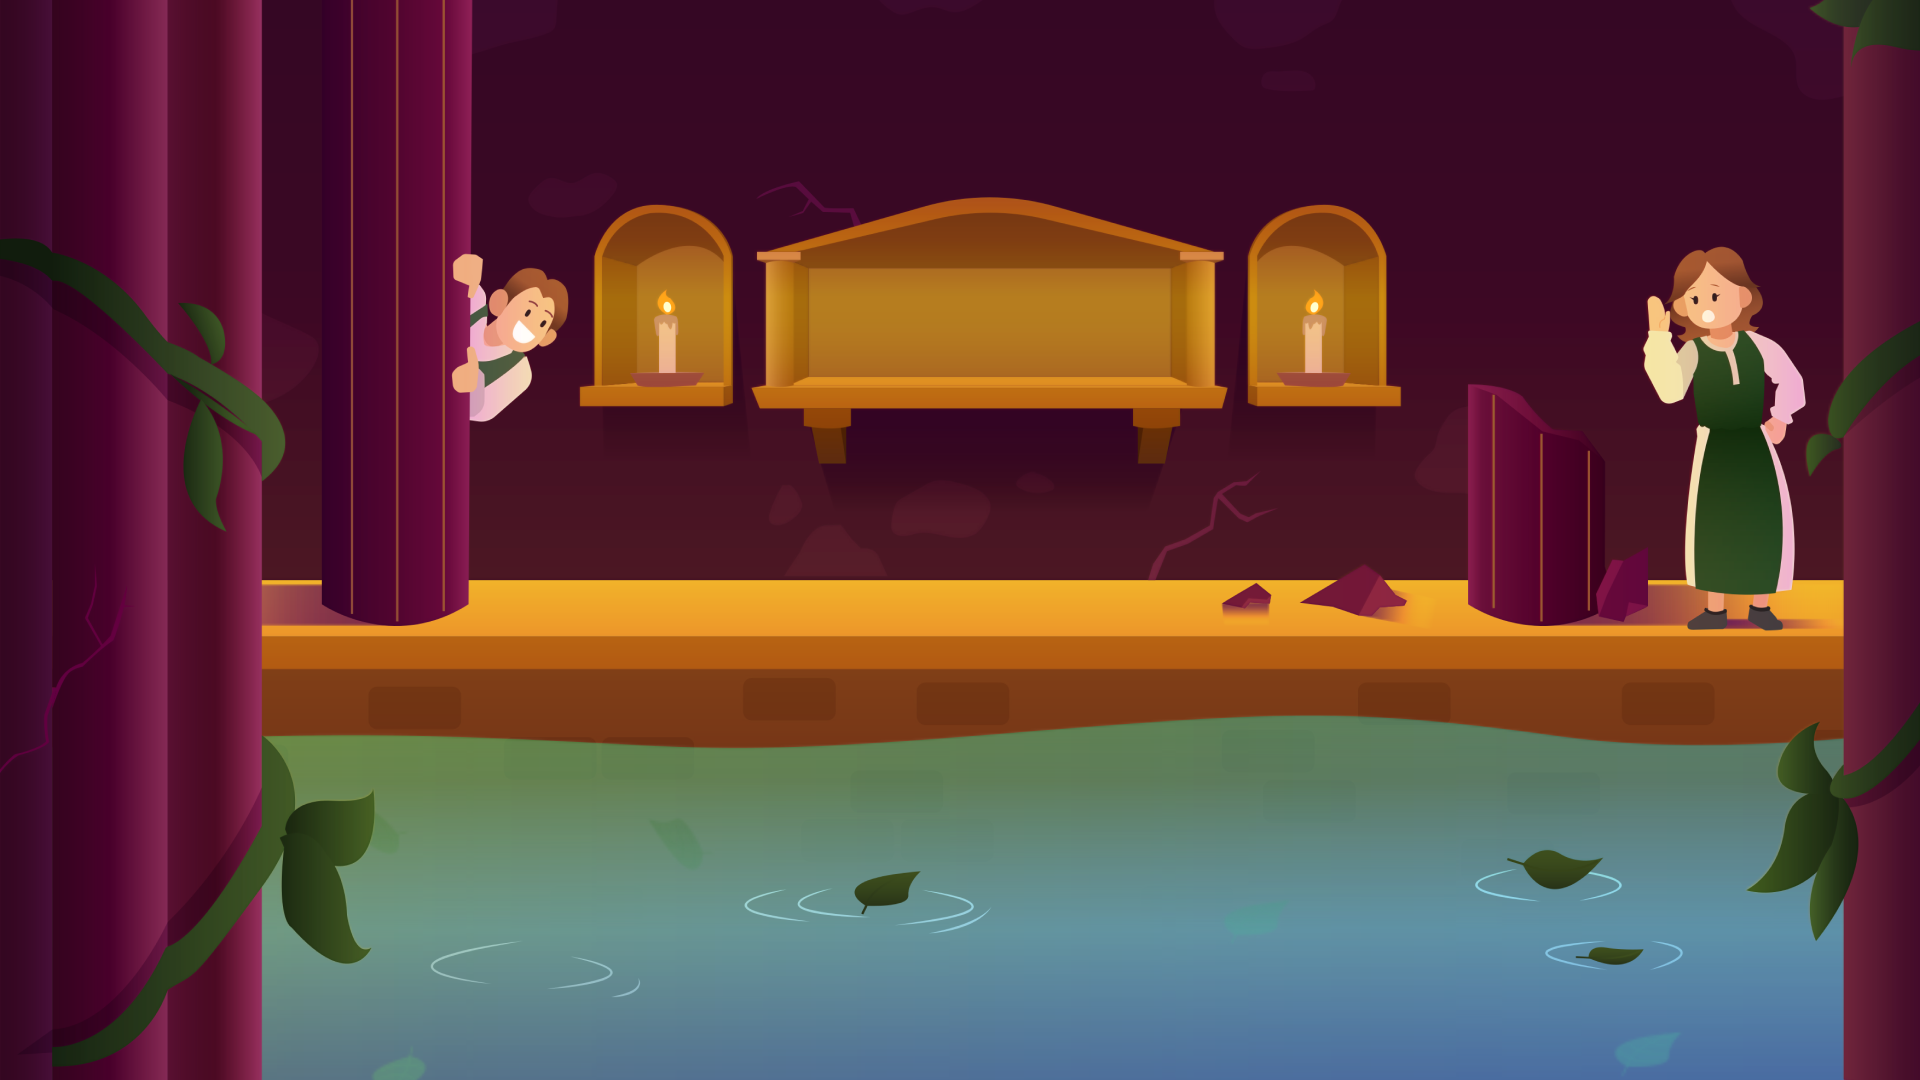
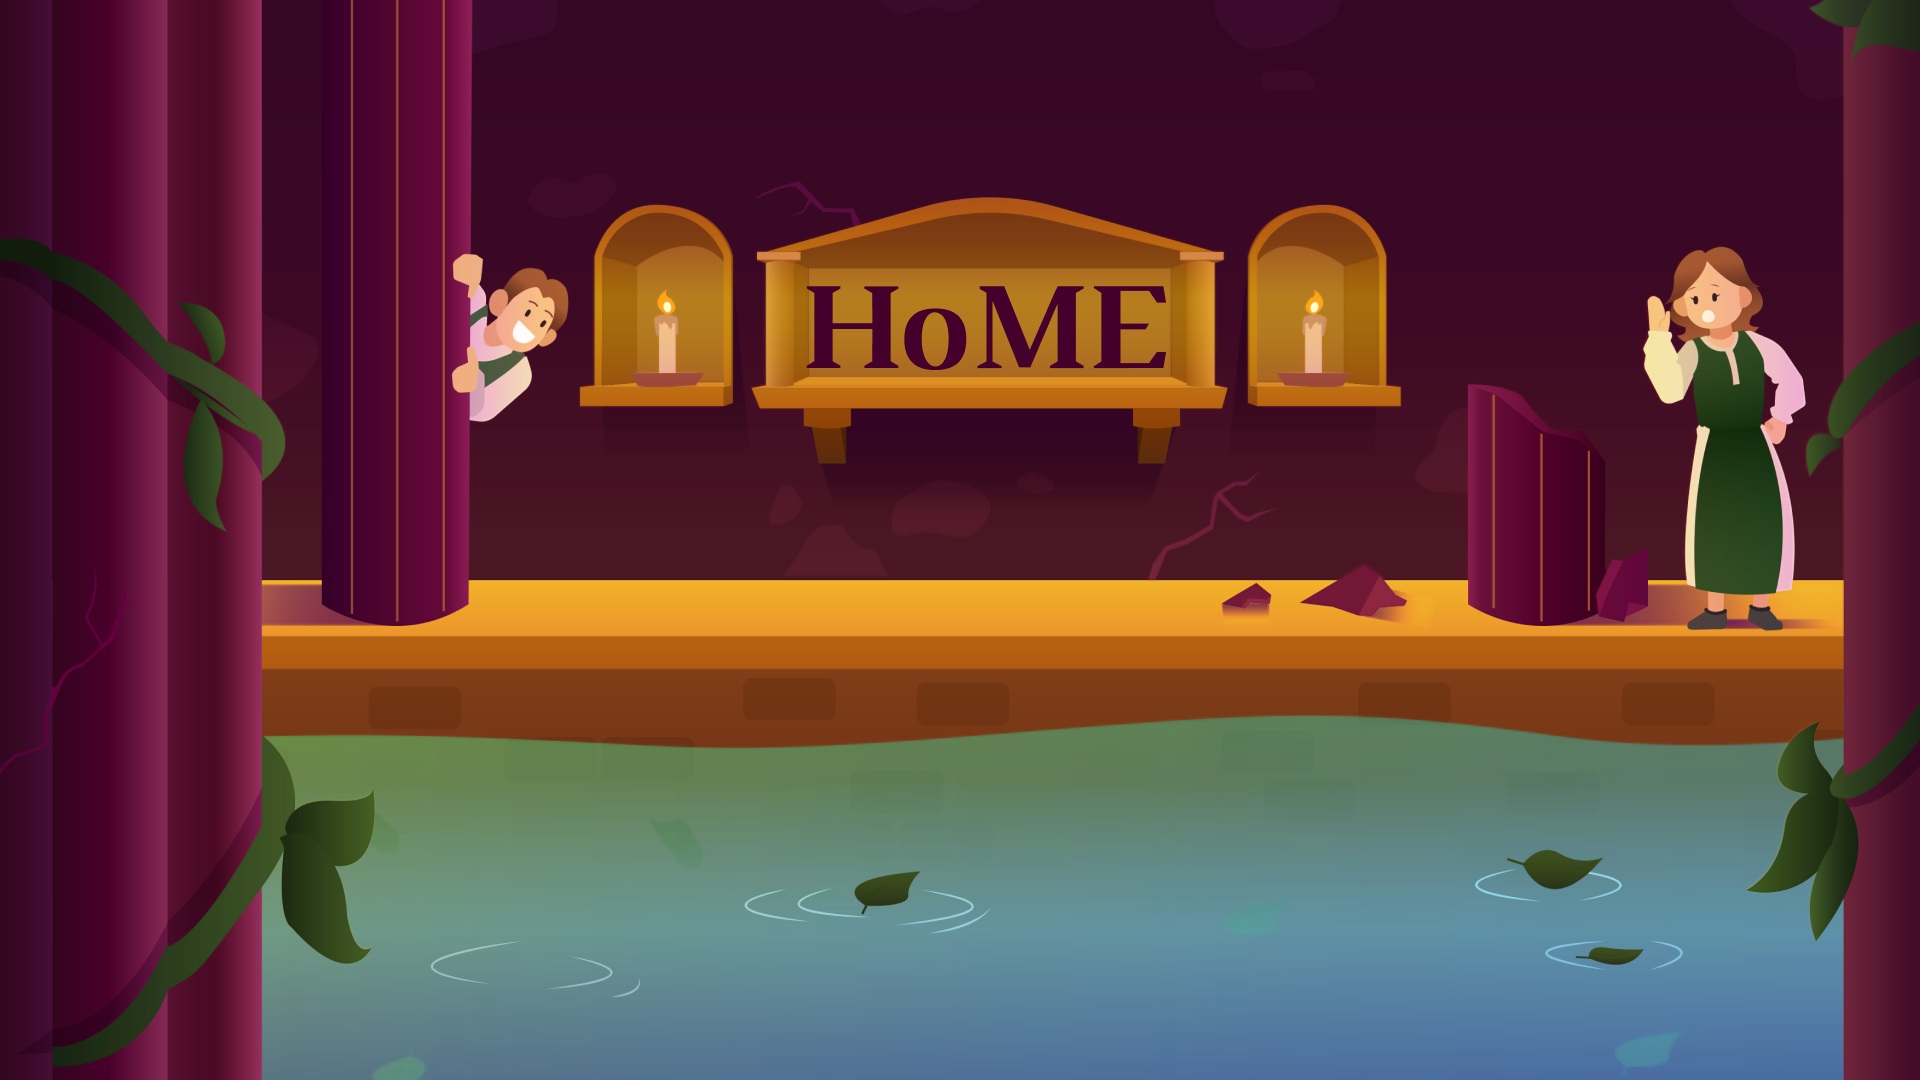
fix: file positioning, font Lexend, add bgImage HoME

Changed region(s): [[0.4062, 0.2444, 0.625, 0.3667]]

diff --git a/src/pages/(main)/home/index.tsx b/src/pages/(main)/home/index.tsx
@@ -2,8 +2,14 @@ import { Stack, Text } from "@chakra-ui/react";
 
 const Home = () => {
   return (
-    <Stack>
-      <Text>HoME</Text>
+    <Stack
+      bgImage={"/bg/home-desktop.png"}
+      bgSize={"cover"}
+      bgRepeat={"no-repeat"}
+      bgPosition={"center"}
+      minH={"100vh"}
+    >
+      {/* <Text>HoME</Text> */}
     </Stack>
   );
 };

diff --git a/src/main.tsx b/src/main.tsx
@@ -9,7 +9,7 @@ import "@fontsource-variable/lexend";
 const theme = extendTheme({
   fonts: {
     Luthier: `'Luthier', sans-serif`,
-    Lexend: `'Lexend', sans-serif`,
+    Lexend: `'Lexend Variable', sans-serif`,
   },
   colors: {
     text: {

diff --git a/src/pages/(main)/_layout.tsx b/src/pages/(main)/_layout.tsx
@@ -17,7 +17,7 @@ const NavBarData = [
     link: "/",
   },
   {
-    title: "STATE",
+    title: "State",
     icon: "/icons/state-icon.png",
     link: "/state",
   },
